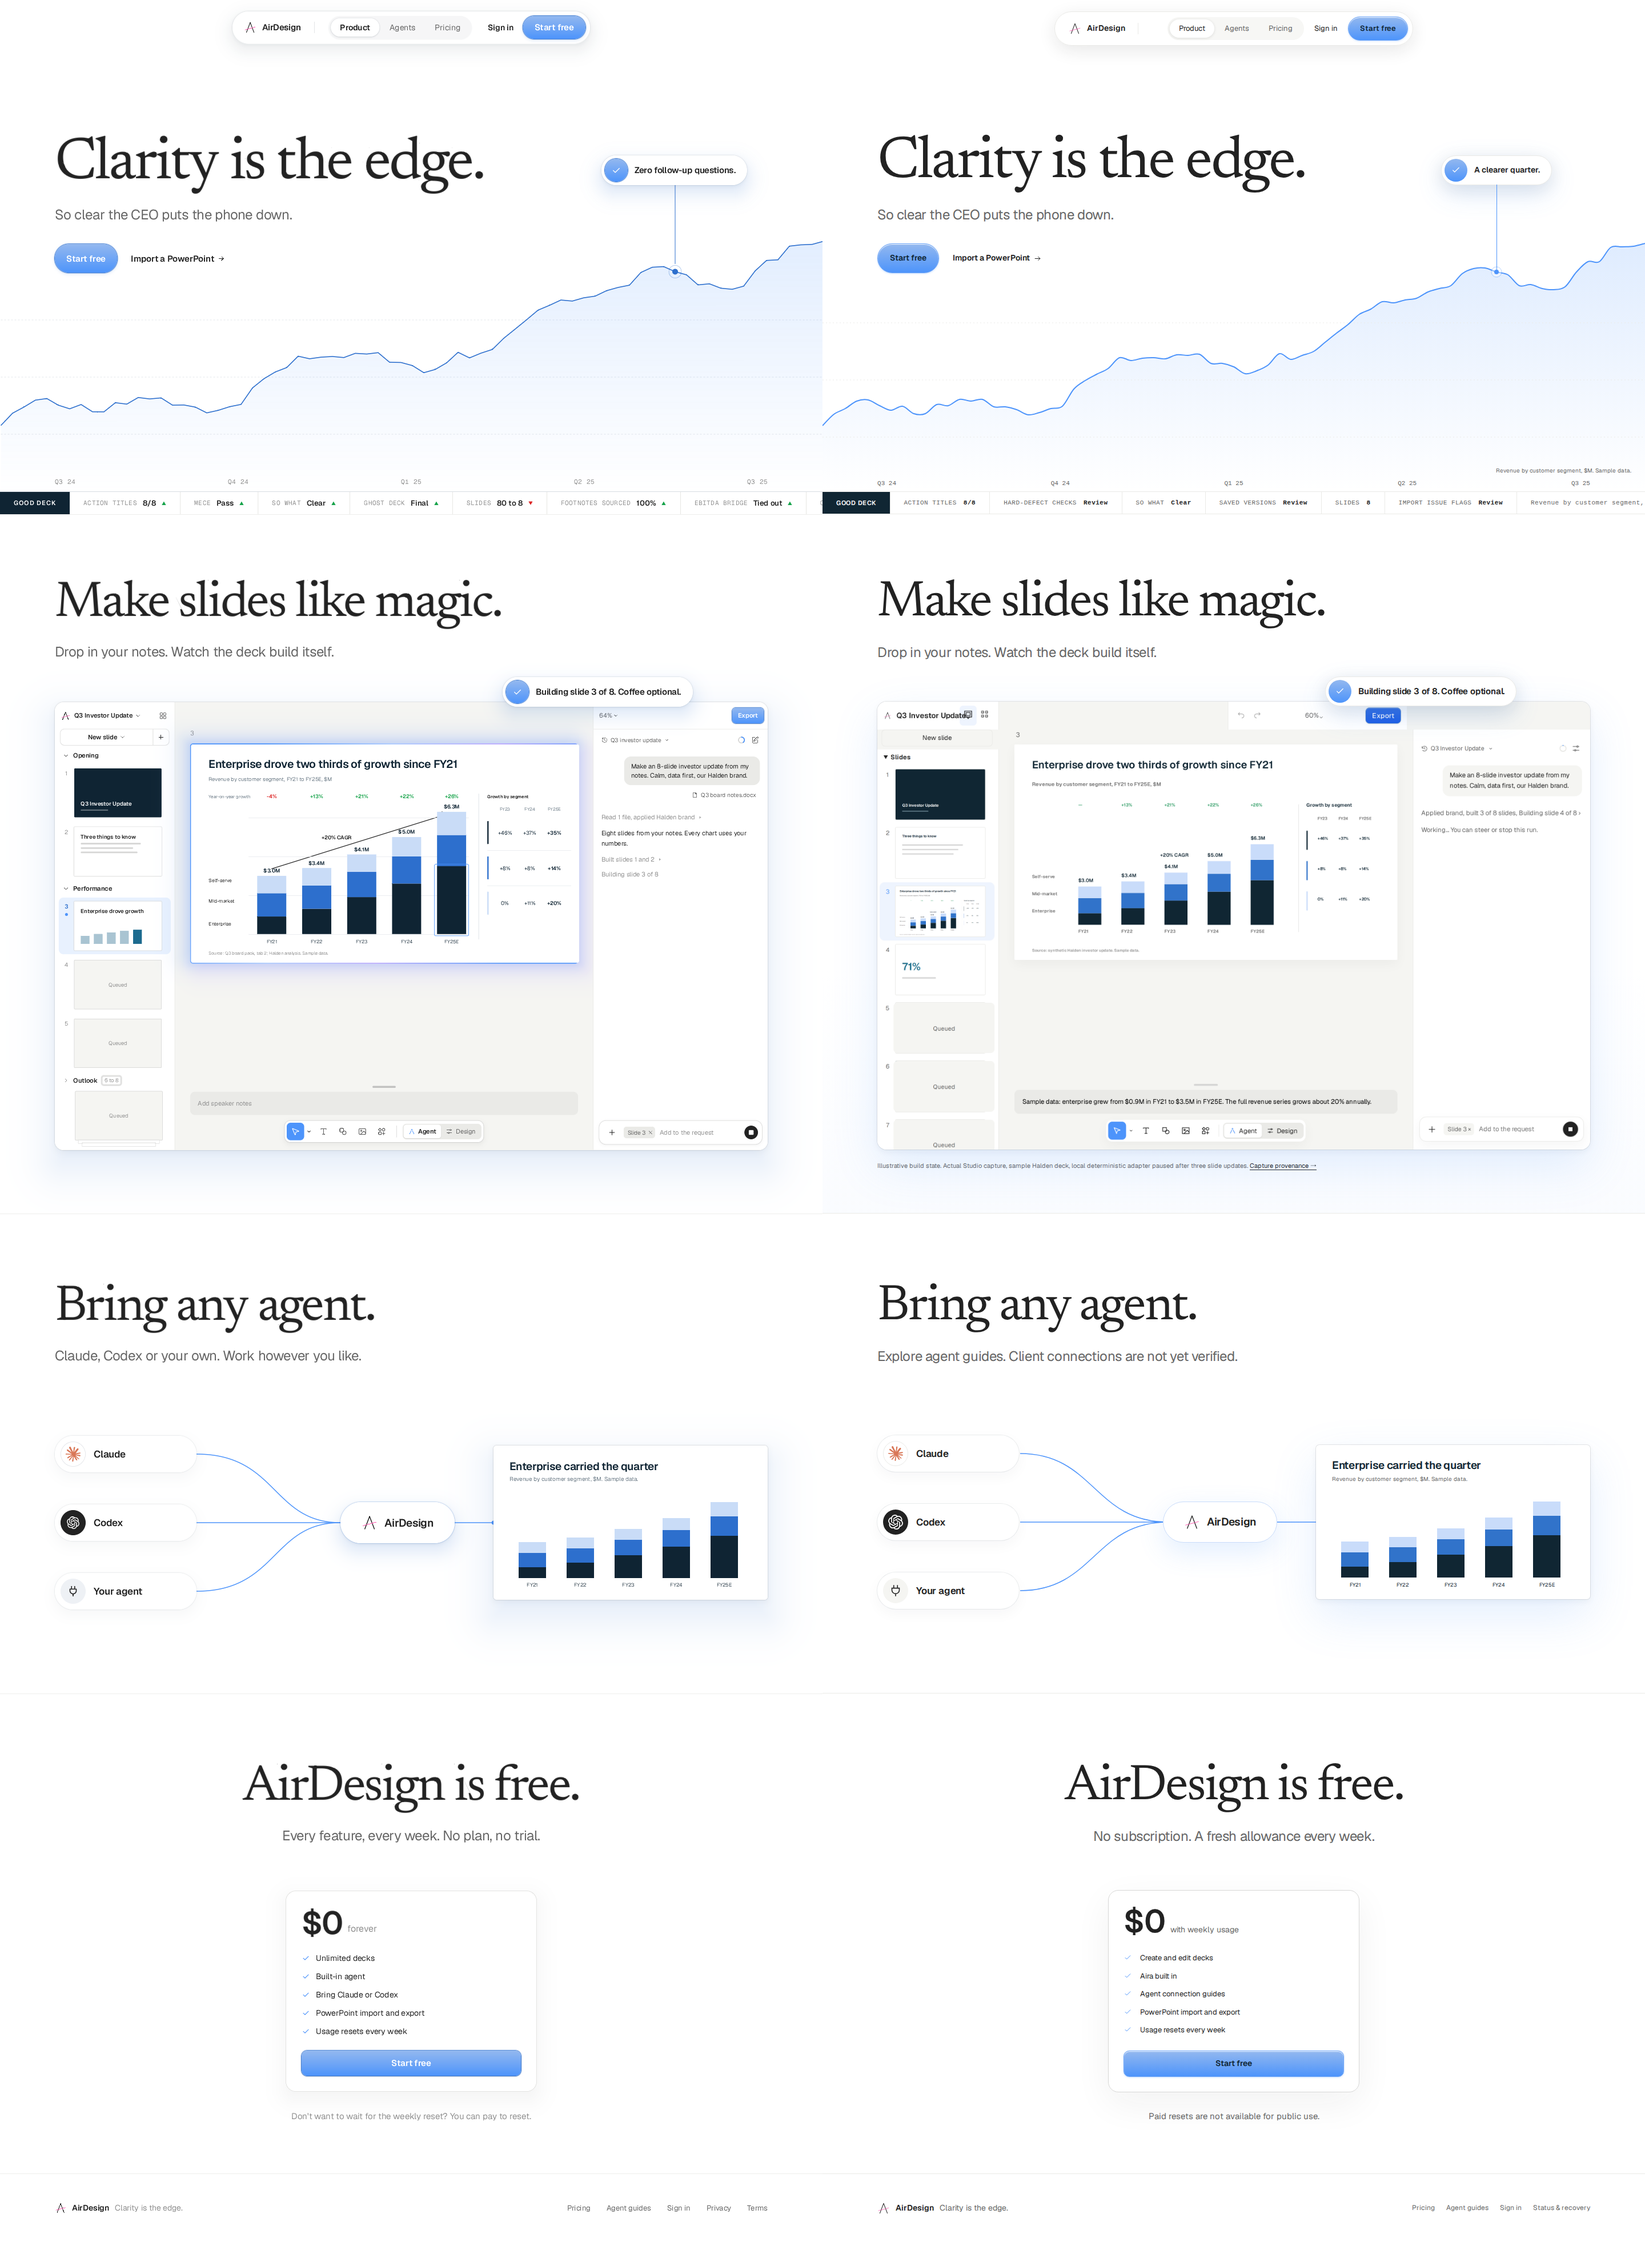
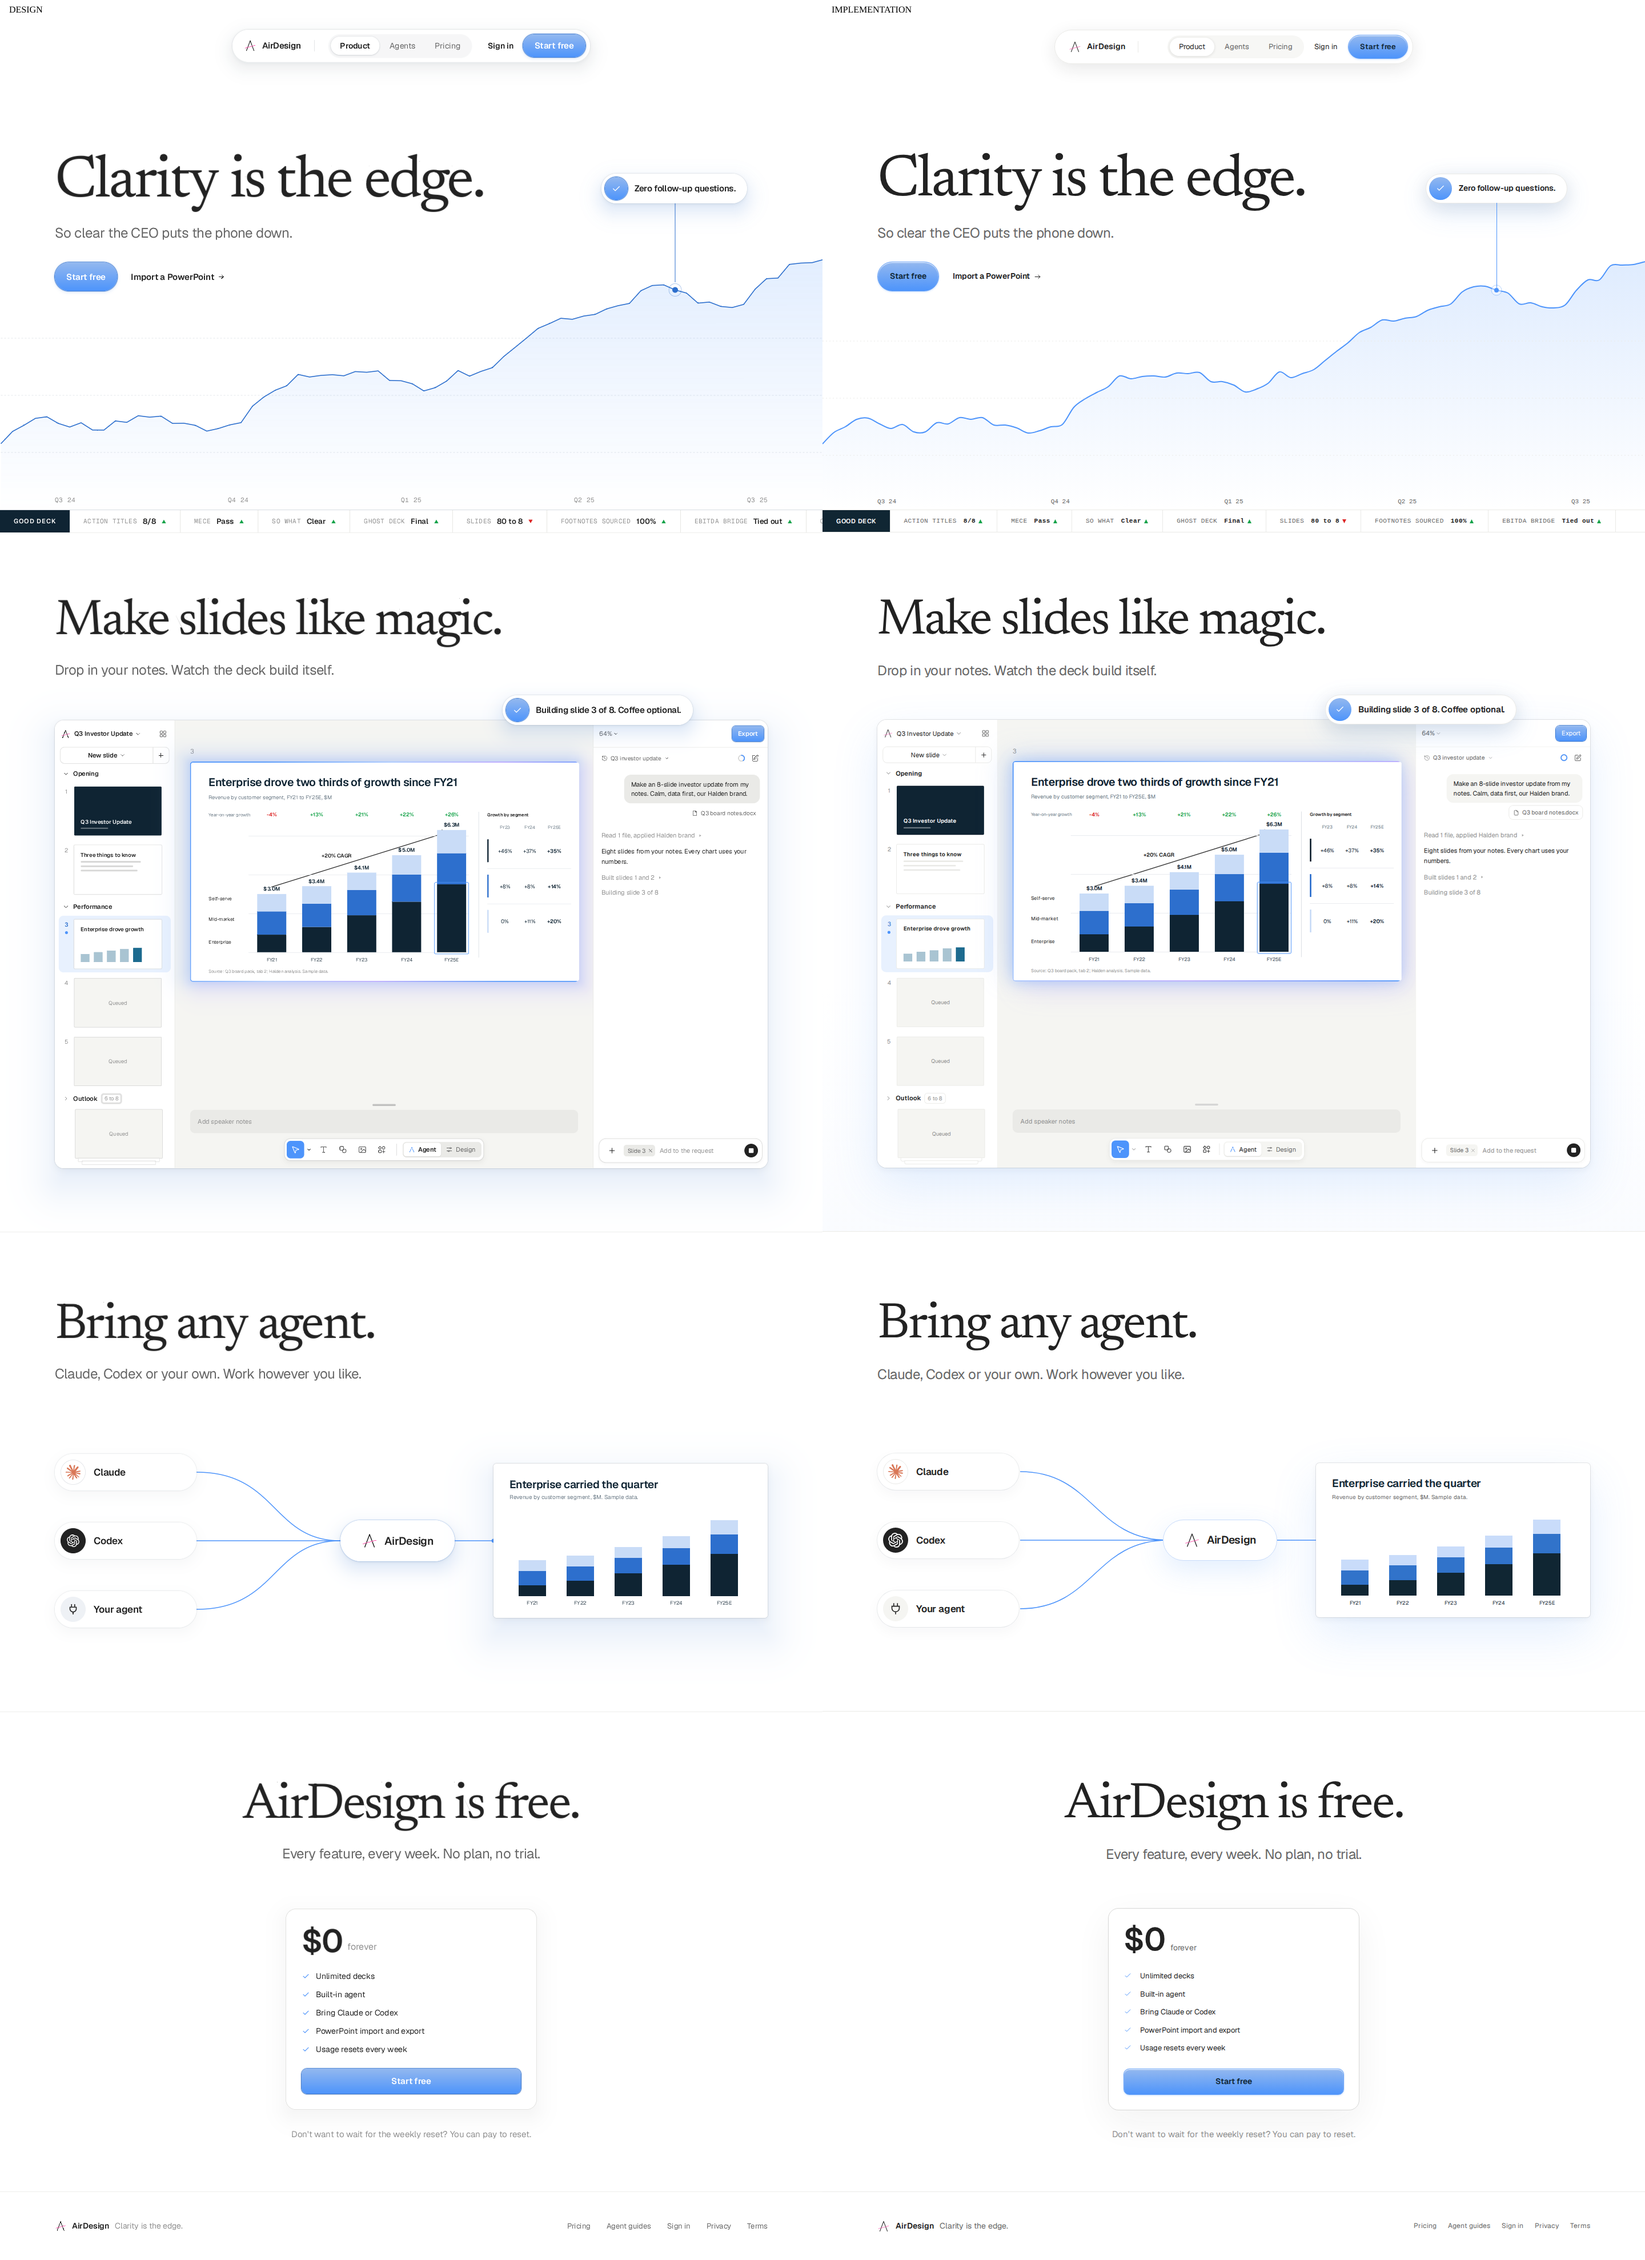
docs: refresh final landing design comparisons

diff --git a/docs/reviews/landing-design-alignment/README.md b/docs/reviews/landing-design-alignment/README.md
@@ -1,6 +1,6 @@
 # Landing design alignment
 
-The operator reported that the live landing page did not match the design. The ranked audit was saved before edits. The authoritative references are S11.01 and S12.01 under `docs/design/v0.1`. Desktop captures use CSS width 1440 and phone captures use width 390. The browser returned some desktop bitmaps at 1280 pixels; those are normalized to the requested CSS width in these comparisons.
+The operator reported that the live landing did not match the design. The ranked audit and before images were saved before edits. S11.01 and S12.01 PNGs are authoritative; desktop captures use CSS width 1440 and phone captures width 390. There is no separate phone design PNG.
 
 ## Images read during verification
 
@@ -9,18 +9,24 @@ The operator reported that the live landing page did not match the design. The r
 - [Landing design beside final desktop](design-after-desktop.png) and [phone](design-after-phone.png)
 - [Pricing before](before-pricing.png), [after desktop](after-pricing.png) and [after phone](after-pricing-phone.png)
 - [Pricing design beside final desktop](design-after-pricing.png) and [phone](design-after-pricing-phone.png)
-- [Designed link regions](design-link-regions.png): landing header, landing footer, pricing header. Pricing appears in both landing regions. The pricing header has an AirDesign home link and no Product link.
+- [Designed link regions](design-link-regions.png): Pricing in both landing header and footer; pricing header has an AirDesign home link and no Product link.
 
-The final Studio exhibit was captured from the current built Studio with eight sample slides and three accepted agent changes. Its fixture payload is tested against the real agent tool response limit. The earlier oversized payload failed that behavior test. The mobile exhibit shows the complete slide within its frame.
+## Operator decisions
+
+Landing and pricing reproduce the design copy, including unlimited decks, the weekly reset sentence, agent choice, hero callout and stats values. Exact text exceptions in the release-claims registry apply only to these two source pages. Tests reject the same claim on Status and Studio. Other surfaces retain their checks.
+
+Privacy and Terms match the design as plain footer text until pages exist; tests prove they have no link hover, focus or cursor behavior, and site-audit remains unchanged for missing routes.
+
+CTA labels stay dark on the gradient per the operator's earlier contrast decision. The product exhibit is a deterministic composition of the editor and Run 04 from the design generator, following the landing postprocessor; its manifest records source/output hashes and two PNG corrections (selected thumbnail title and notes background). It is identified as an illustration, with no claim of actual capture provenance. Existing real-capture checks remain intact for the separate capture asset.
 
 ## Structure proof
 
-Root authorized only two public structure-contract corrections. S11.01 requires one Pricing link in the header and one in the footer, with painted controls and a header navigation probe. S12.01 requires and probes the AirDesign home link in the header. Tests reject either missing Pricing link and reject an outside substitute for the missing header home link. The old contracts are also exercised and fail against the designed structure. The focused paint, structure, registry and interaction suite passed 50 tests.
+Only two public structure contracts change. S11 requires one Pricing link in the header and one in the footer. S12 requires and probes the AirDesign home link in the header, without requiring a Product link absent from the PNG. Negative tests reject either missing Pricing link and an outside substitute for the header home link. The old contracts fail against the designed structure.
 
-Only those two scenario identities changed. Targets, budgets, metric, fixtures and design images remain unchanged. S11.01 is uncalibrated because its generator source differs from its PNG; a numeric parity pass is not visual approval. These side-by-sides were read directly.
+Targets, budgets, metric, parity fixtures and design images remain unchanged. S11 is uncalibrated because its generator source differs from its PNG; a numeric parity pass is not visual approval. The saved side-by-sides are read directly.
 
-## Remaining design conflicts
+The design covers only landing and pricing as public routes. Existing agent guides, examples and status routes receive shared styling and responsive checks without adding pages.
 
-Truthful copy replaces unproven promises about unlimited decks forever, verified external-agent connections, paid resets, zero follow-up questions, MECE approval, final deck quality and financial tie-outs. Available Status and recovery replaces unavailable legal destinations. CTA text stays navy because the target white text fails the existing contrast gate. The exhibit shows the actual current Studio, including its current navigation and agent log, rather than fabricated product chrome. The sample slide retains CAGR text but has no trend line because the slide model does not have a native line primitive.
+## Final visual verification
 
-No other public route has a design PNG. Existing agent guides, examples and status routes receive shared styling and responsive checks without adding pages.
+The final desktop and phone comparisons above were read directly after the source exhibit, selected thumbnail title, notes bar, pricing row and strip arrows were restored. Both S11/S12 structure and pixel regression checks pass. Desktop section comparisons and their phone counterparts are retained in `~/tmp/airdesign-polish/owners/landing/design-alignment/final-sections`. The full frozen-head gate and natural PR checks are reported in the PR.

diff --git a/docs/reviews/landing-design-alignment/ranked-differences.md b/docs/reviews/landing-design-alignment/ranked-differences.md
@@ -1,5 +1,7 @@
 # Landing alignment audit — 2026-11-09
 
+> Historical audit before fixes. The operator subsequently required exact S11/S12 design copy and a design-source product illustration. Those decisions supersede the truthful-copy and real-capture recommendations below. Privacy and Terms remain visually matching plain text until destinations exist.
+
 Base: main `4f71aa4ed51298c600a735acc1dc3e423e1b5175`, confirmed with GitHub API. Fresh branch `landing/design-alignment`. Live captures taken at desktop CSS width 1440 and phone width 390 after font/image readiness and scrolling every section. Browser desktop snapshots are capped at 1280 bitmap pixels; the composites normalize those to CSS pixels. Section positions were measured in the DOM. Before images are in `before/` beside this report. Design images and calibration remain untouched.
 
 Authoritative public targets: S11.01 (landing, 1440×3924) and S12.01 (pricing, 1470×923), plus tokens/copy kit. No phone or other-public-route PNG exists in the design set; mobile is checked for the same hierarchy and usable responsive behavior. S11.01 has no valid calibrated score; these comparisons are visual judgments.
